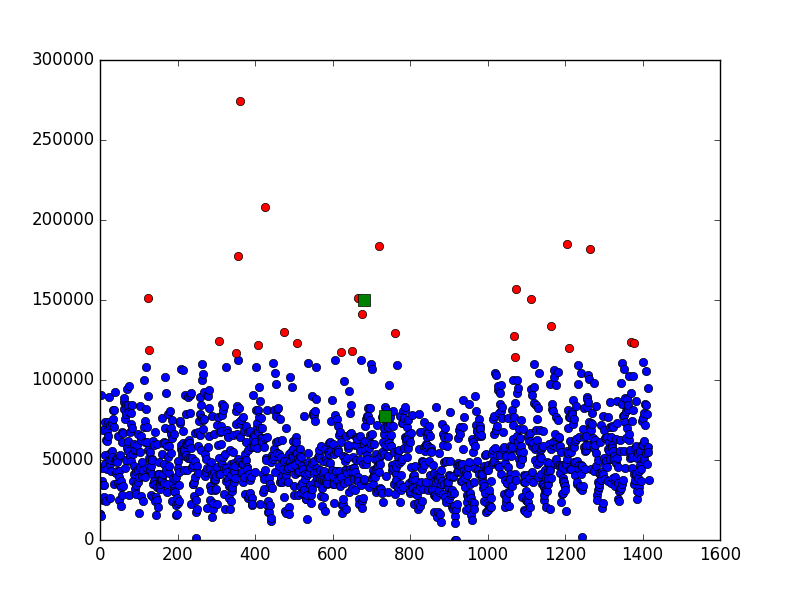
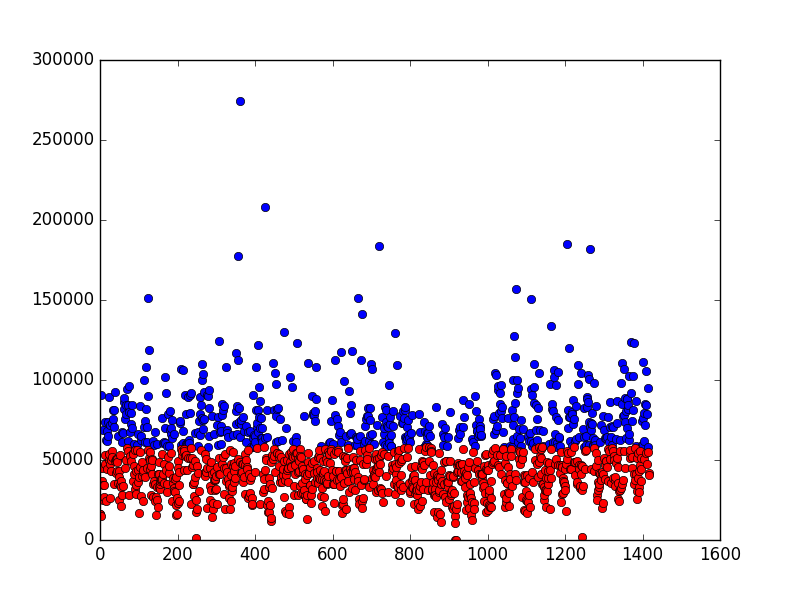
Add distinct items to analyze

diff --git a/ors.py b/ors.py
@@ -160,17 +160,18 @@ def UnsupervisedAnomaly(ls):
     colors = ('red', 'blue')
     xy = numpy.array(data)
     centroids,_ = kmeans(xy,2)
-    print(centroids)
-    # manually set centroids
-    centroids = numpy.array([[736.30742049,77302.41342756],[680, 150000]])
+
+    # manual centroids
+    # yew logs
+    #centroids = numpy.array([[736.30742049,77302.41342756],[680, 140000]])
+
+    # bronze dagger
+    #centroids = numpy.array([[700,10000],[700,100]])
+
     idx,_ = vq(xy, centroids)
-      
-    # plot colored points
-    #pylab.scatter(xy[:,0],xy[:,1], c=colors)
-       
-    # mark centroids as (X)
+    
     plot(xy[idx==0,0],xy[idx==0,1], 'ob', xy[idx==1,0],xy[idx==1,1], 'or')
-    plot(centroids[:,0],centroids[:,1],'sg',markersize=8)
+    #plot(centroids[:,0],centroids[:,1],'sg',markersize=8)
     pylab.savefig('kmeans.png')
 
 ##############################################################################################
@@ -187,7 +188,12 @@ JSON Return Data:
  "overallCompleted",}
 '''
 def ORS_HistoricalData ():
+    # yew logs - 1515
+    # bronze dagger - 1205
+
     itemID = '1515'
+    #itemID = '1205'
+
     #startTime = '1357027200000'
     startTime = str(1488614400000 - (86400000*28))
     timeInterval = '30'
